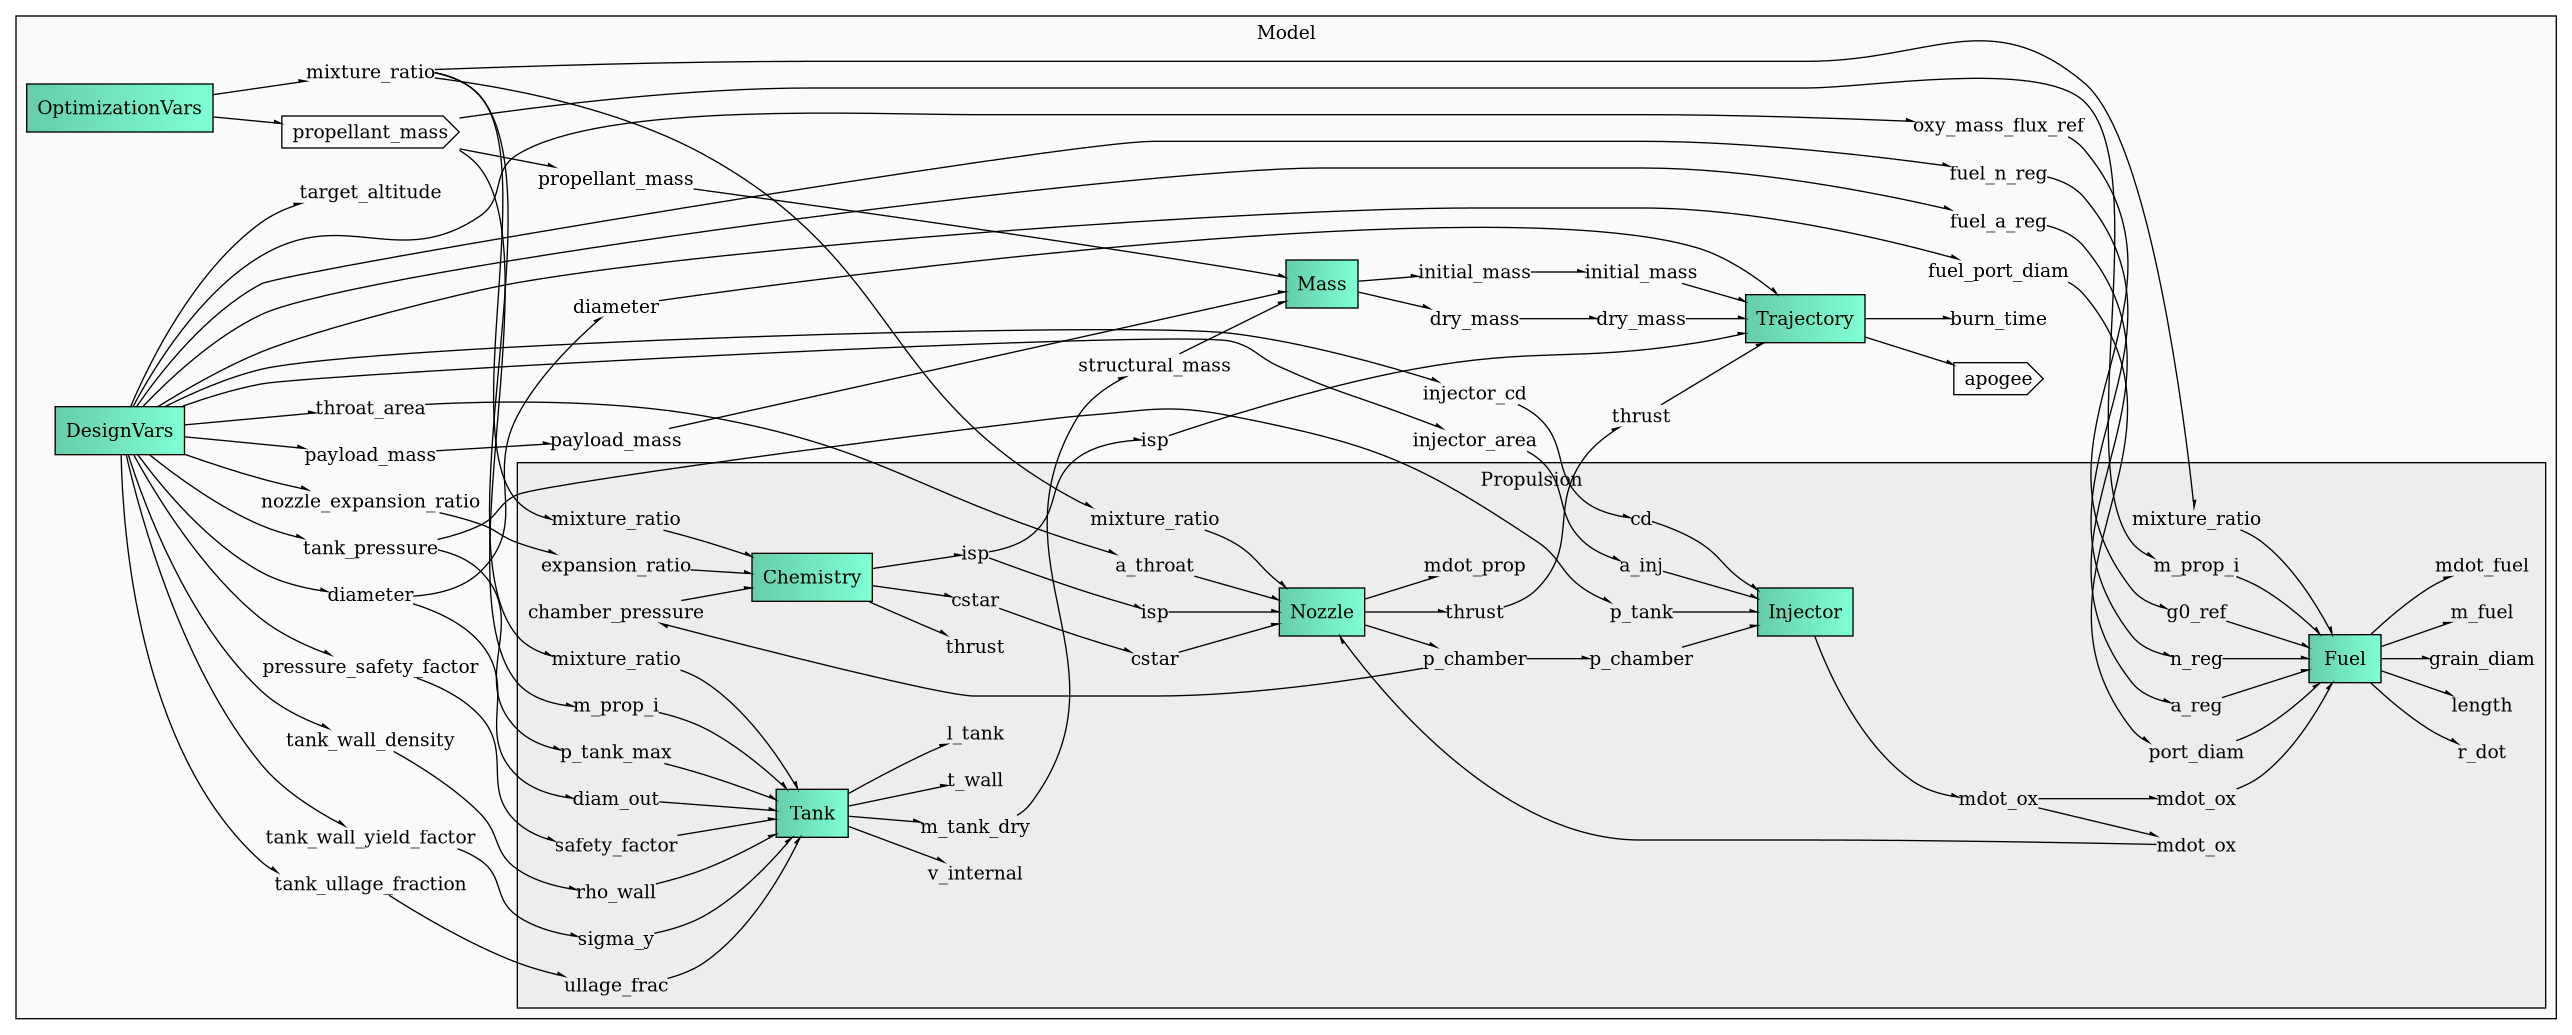
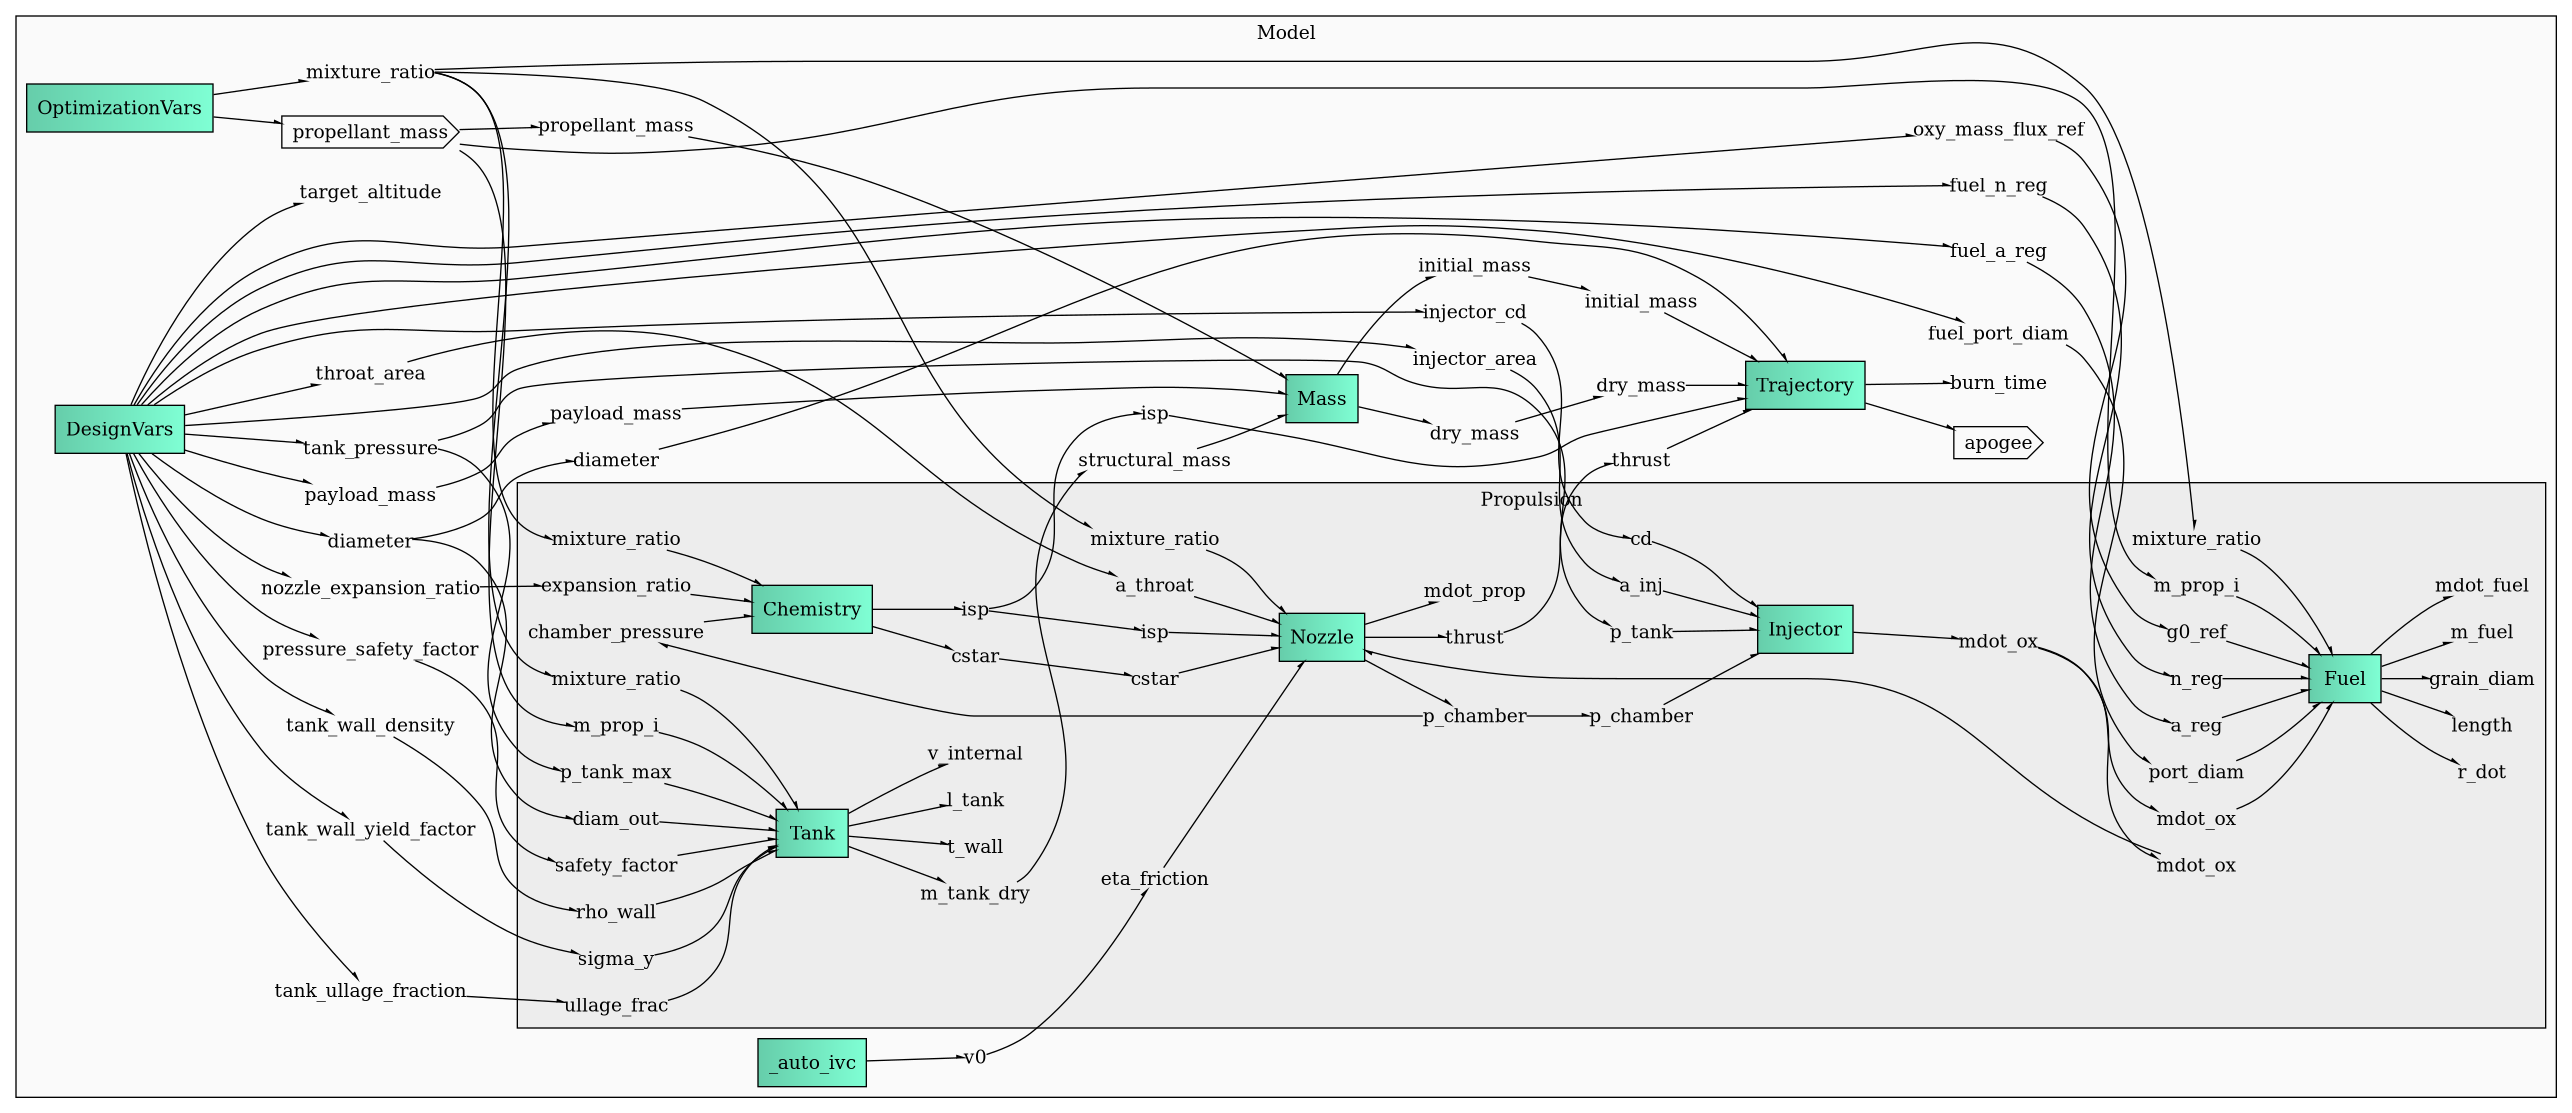
Pruning the deprecated chemistry thrust parameter

diff --git a/modules/BEARS_Rocket/comp_nozzle.py b/modules/BEARS_Rocket/comp_nozzle.py
@@ -14,6 +14,8 @@ class NozzleComponent(ExplicitComponent):
 		self.add_input("isp",           val=300.0,  units="s")
 		self.add_input("a_throat",      val=5e-4,   units="m**2")
 
+		self.add_input("eta_friction",  val=0.95) # Viscous friction efficiency
+
 		self.add_output("p_chamber",    val=20e5,   units="Pa")
 		self.add_output("mdot_prop",    val=1.16,   units="kg/s")
 		self.add_output("thrust",       val=3000.0, units="N")
@@ -27,11 +29,20 @@ class NozzleComponent(ExplicitComponent):
 		cstar   = inputs["cstar"]
 		isp     = inputs["isp"]
 		a_t     = inputs["a_throat"]
+		eta     = inputs["eta_friction"]
 
+		# Modulate the characteristic velocity
+		# with empirical nozzle efficiency
+		cstar_actual = eta * cstar
+
+		# Mass flow of the exhaust mixture
 		mdot_prop = mdot_ox * (mr + 1.0) / mr
-		p_c = (mdot_prop * cstar) / a_t
 
-		# Isp = F / (m * g) = v_e / g
+		# Choked flow equation
+		p_c = (mdot_prop * cstar_actual) / a_t
+
+		#    Isp = v_e / g = F / (mdot * g)
+		# => F = mdot * Isp * g
 		thrust = mdot_prop * isp * g
 
 		outputs["mdot_prop"] = mdot_prop

diff --git a/modules/BEARS_Rocket/comp_chem.py b/modules/BEARS_Rocket/comp_chem.py
@@ -13,9 +13,8 @@ class ChemComponent(ExplicitComponent):
 		self.add_input("mixture_ratio",    val=6.0)
 		self.add_input("expansion_ratio",  val=40.0) # expansion area ratio
 
-		self.add_output("cstar",  val=1500.0, units="m/s") # characteristic velocity
-		self.add_output("isp",    val=120.0,  units="s")
-		self.add_output("thrust", val=120.0,  units="N")
+		self.add_output("cstar", val=1500.0, units="m/s") # characteristic velocity
+		self.add_output("isp",   val=120.0,  units="s")
 
 	def setup_partials(self):
 		self.declare_partials(
@@ -44,4 +43,3 @@ class ChemComponent(ExplicitComponent):
 
 		outputs["cstar"] = cstar
 		outputs["isp"]   = isp
-		# outputs['thrust'] = 1200.0 # placeholder
